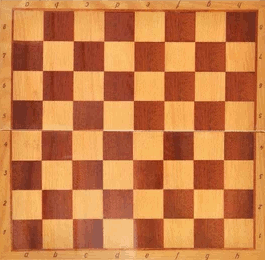
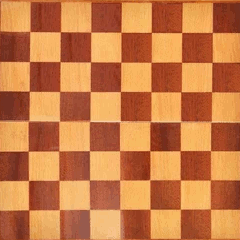
removing simplechess engine

diff --git a/rookery/rookery.cpp b/rookery/rookery.cpp
@@ -5,32 +5,17 @@ using namespace blit;
 #define BOARDSIZE 220
 Surface *boardimage, *allpieces;
 Vec2 boardpos, cursor;
+int bstyle;
+float zoom; 
 
 typedef struct pieceobj {
 	Rect pic;
 	Vec2 pos;
+	char type;
 	int selected;
 
-} piece;
+} pieceobj;
 std::vector <pieceobj> pieces;
-
-#include "SimpleChess.h"
-Game g;
-void randomMove(Game &g) {
-	// get all pieces that are allowed to move
-	std::vector<Piece*> moveable_pieces;
-	pieceColor player = g.currentPlayer();
-	for (unsigned i=0; i < 8; ++i) {
-		for (unsigned j=0; j < 8; ++j) {
-			Piece* p = g.getPiece(i, j);
-			if (p->color == player && !p->legalMoves.empty())
-				moveable_pieces.push_back(p);
-		}
-	}
-	// pick one and make a random legal move with it
-	Piece* p = moveable_pieces.at( rand() % moveable_pieces.size());
-	g.move(p->legalMoves.at( rand () % p->legalMoves.size()) );
-}
 
 // grid coords to screen
 Vec2 grid2screen(int a, int b){
@@ -43,7 +28,7 @@ Vec2 grid2screen(int a, int b){
 
 // Return sprite image from chess notation e.g. N = black knight image
 Rect getimage (char p) {
-    Rect img = Rect(0,0,10,10);
+    Rect img = Rect(0,0,20,20);
 
     if (p == 'R') img = Rect(21,76,18,28);
     if (p == 'r') img = Rect(21,22,18,28);
@@ -67,6 +52,7 @@ void set_boardline(std::string boardline, int y) {
     for (int x=0;x < 8; x++){
 	    char p = boardline[x];
 	    piece.pos = Vec2(x,y);
+	    piece.type = p;
 	    piece.pic = getimage(p);
 	    piece.selected = 0;
     	    pieces.push_back(piece);
@@ -78,24 +64,45 @@ void screenrect (Point a, Point b, Point c, Point d) {
     screen.line(a,b); screen.line(b,c); screen.line(c,d); screen.line(d,a);
 }
 
+void draw_cursor(Vec2 cursor) {
+    // draw border round selected square
+    
+    Vec2 a = grid2screen(cursor.x,cursor.y);
+    Vec2 b = grid2screen(cursor.x+1,cursor.y);
+    Vec2 c = grid2screen(cursor.x+1,cursor.y+1);
+    Vec2 d = grid2screen(cursor.x,cursor.y+1);
+			  
+    screen.pen = Pen(255,255,255);
+    screenrect (a,b,c,d);
+}
+
+void help_screen() {
+   	   screen.pen = Pen(255,255,255);
+	   screen.text("Controls",minimal_font,Vec2(10,60));
+	   screen.text("A: move piece",minimal_font,Vec2(10,80));
+	   screen.text("B: cancel move",minimal_font,Vec2(10,100));
+	   screen.text("X: change board style",minimal_font,Vec2(10,120));
+	   screen.text("Y: swap sides",minimal_font,Vec2(10,140));
+}
+
 void init() {
 
     set_screen_mode(ScreenMode::hires);
 
-    boardimage = Surface::load(board2);
+    boardimage = Surface::load(board1);
     allpieces = Surface::load(pieces1);
 
     // setup board
-    /*
     set_boardline ( "RNBKQBNR",0);
     set_boardline ( "PPPPPPPP",1);
     set_boardline ( "pppppppp",6);
     set_boardline ( "rnbkqbnr",7);
-    */
 
+    cursor = Vec2(4,6);
 }
 
 void render(uint32_t time) {
+static uint32_t start;	
 
     screen.pen = Pen(0,0,0);
     screen.clear();
@@ -111,79 +118,55 @@ void render(uint32_t time) {
 		screen.stretch_blit(allpieces, piece.pic, Rect(screenpos.x,screenpos.y,22,28));
 		}
 
-    // draw border round selected square
-    Vec2 a = grid2screen(cursor.x,cursor.y);
-    Vec2 b = grid2screen(cursor.x+1,cursor.y);
-    Vec2 c = grid2screen(cursor.x+1,cursor.y+1);
-    Vec2 d = grid2screen(cursor.x,cursor.y+1);
-			  
-    screen.pen = Pen(255,255,255);
-    screenrect (a,b,c,d);
+   draw_cursor(cursor);
 
-    for (int x=0;x<8;x++)
-	    for (int y=0;y<8;y++) {
-		    Piece p = g.getPiece(y,x);
-		    Rect pic = Rect(0,0,10,10);
-		    if (p.name == pieceName::PAWN && p.color == pieceColor::WHITE) pic = getimage('P');
-		    if (p.name == pieceName::PAWN && p.color == pieceColor::BLACK) pic = getimage('p');
-
-		    if (p.name == pieceName::ROOK && p.color == pieceColor::WHITE) pic = getimage('R');
-		    if (p.name == pieceName::ROOK && p.color == pieceColor::BLACK) pic = getimage('r');
-
-		    if (p.name == pieceName::KNIGHT && p.color == pieceColor::WHITE) pic = getimage('N');
-		    if (p.name == pieceName::KNIGHT && p.color == pieceColor::BLACK) pic = getimage('n');
-
-		    if (p.name == pieceName::BISHOP && p.color == pieceColor::WHITE) pic = getimage('B');
-		    if (p.name == pieceName::BISHOP && p.color == pieceColor::BLACK) pic = getimage('b');
-
-		    if (p.name == pieceName::KING && p.color == pieceColor::WHITE) pic = getimage('K');
-		    if (p.name == pieceName::KING && p.color == pieceColor::BLACK) pic = getimage('k');
-
-		    if (p.name == pieceName::QUEEN && p.color == pieceColor::WHITE) pic = getimage('Q');
-		    if (p.name == pieceName::QUEEN && p.color == pieceColor::BLACK) pic = getimage('q');
-
-		    Vec2 screenpos = grid2screen(x,y);
-		    screen.stretch_blit(allpieces, pic, Rect(screenpos.x,screenpos.y,22,28));
-	    }
-    switch(g.state) {
-		case gameState::DRAW: 
-			screen.text("Game is a DRAW",minimal_font,Vec2(100,100)); break;
-		case gameState::WON_WHITE: 
-			screen.text("WHITE won !",minimal_font,Vec2(100,100)); break;
-		case gameState::WON_BLACK: 
-			screen.text("BLACK won !",minimal_font,Vec2(100,100)); break;
-		default: break;
-	}
+   if (time - start < 3000) help_screen();
 }
-
-
 
 void update(uint32_t time) {
 static uint32_t lasttime,lasttime2;
+
      if (time - lasttime2 > 150) {
-	     if (g.state == gameState::PLAYING) { randomMove(g); }
 	     lasttime2 = time;
      }
-     if ( time - lasttime > 70) {
-	if (pressed(Button::DPAD_LEFT)) 
-		if ( cursor.x > 0 ) cursor.x--;
-	if (pressed(Button::DPAD_RIGHT)) 
-		if ( cursor.x < 7) cursor.x++;
-	if (pressed(Button::DPAD_UP))
-		if ( cursor.y > 0 ) cursor.y--;
-	if (pressed(Button::DPAD_DOWN))
-		if ( cursor.y < 7) cursor.y++;
+
+    if (time - lasttime > 70) {
+	if (pressed(Button::DPAD_LEFT) &&  cursor.x > 0 ) cursor.x--;
+	if (pressed(Button::DPAD_RIGHT) && cursor.x < 7) cursor.x++;
+	if (pressed(Button::DPAD_UP) && cursor.y > 0 ) cursor.y--;
+	if (pressed(Button::DPAD_DOWN) && cursor.y < 7) cursor.y++;
 	lasttime = time;
 	}
+
+    // start/finish move ... pickup drop piece
     if (buttons.released & Button::A) {
 		for ( auto &p : pieces) 
 			if (p.pos == cursor) p.selected = 1;
 			else {
-				if (p.selected) p.pos = cursor;
+				//drop - move the piece
+				if (p.selected ) p.pos = cursor;
 				p.selected = 0;
 				}
 		}
+    //cancel move
     if (buttons.released & Button::B) 
 		for ( auto &p : pieces) p.selected = 0;
+
+    //flip board round
+    if (buttons.released & Button::Y) {
+    		for (auto &p: pieces) {
+			p.pos = Vec2(7,7) - p.pos;
+		}
+    }
+    //change board image
+    if (buttons.released & Button::X) {
+	    	bstyle = !bstyle;
+		// free up memory
+		delete[] boardimage->data;
+		delete[] boardimage->palette;
+		//swap the board image
+		if (bstyle)  boardimage = Surface::load(board2);
+		else boardimage = Surface::load(board1);
+    }
 }
 
